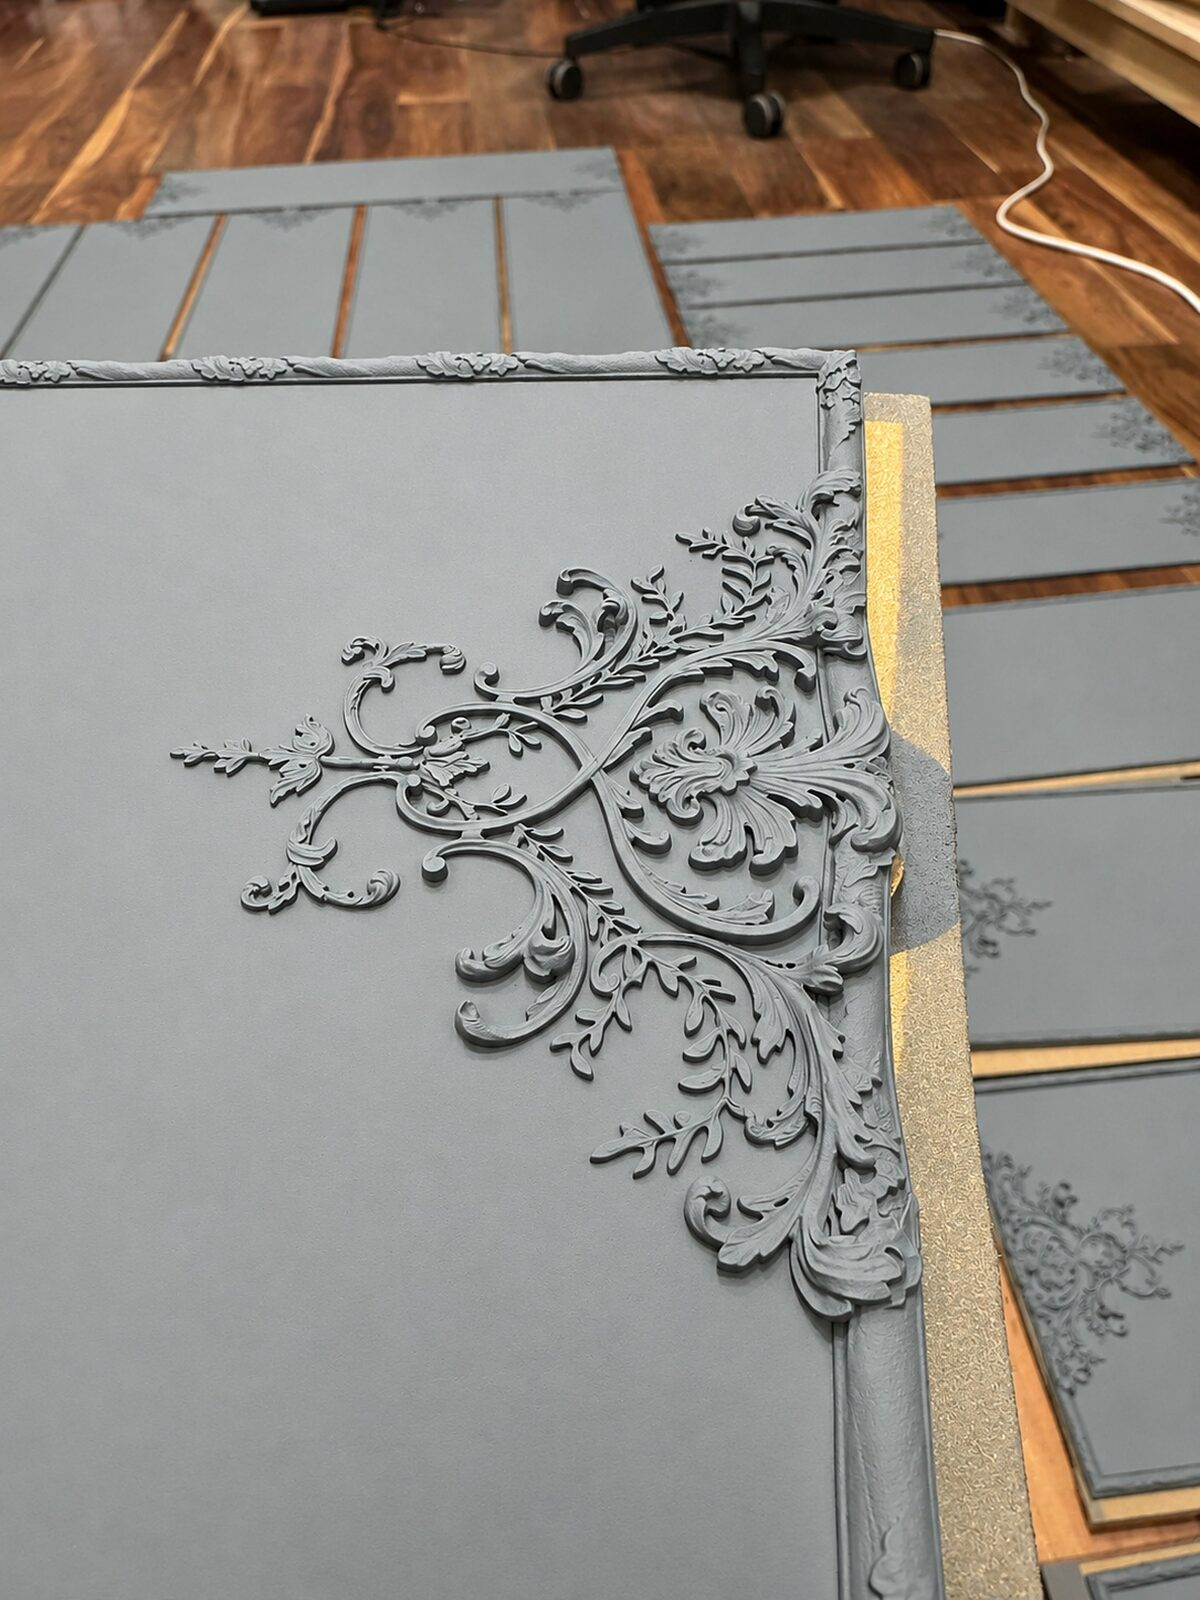
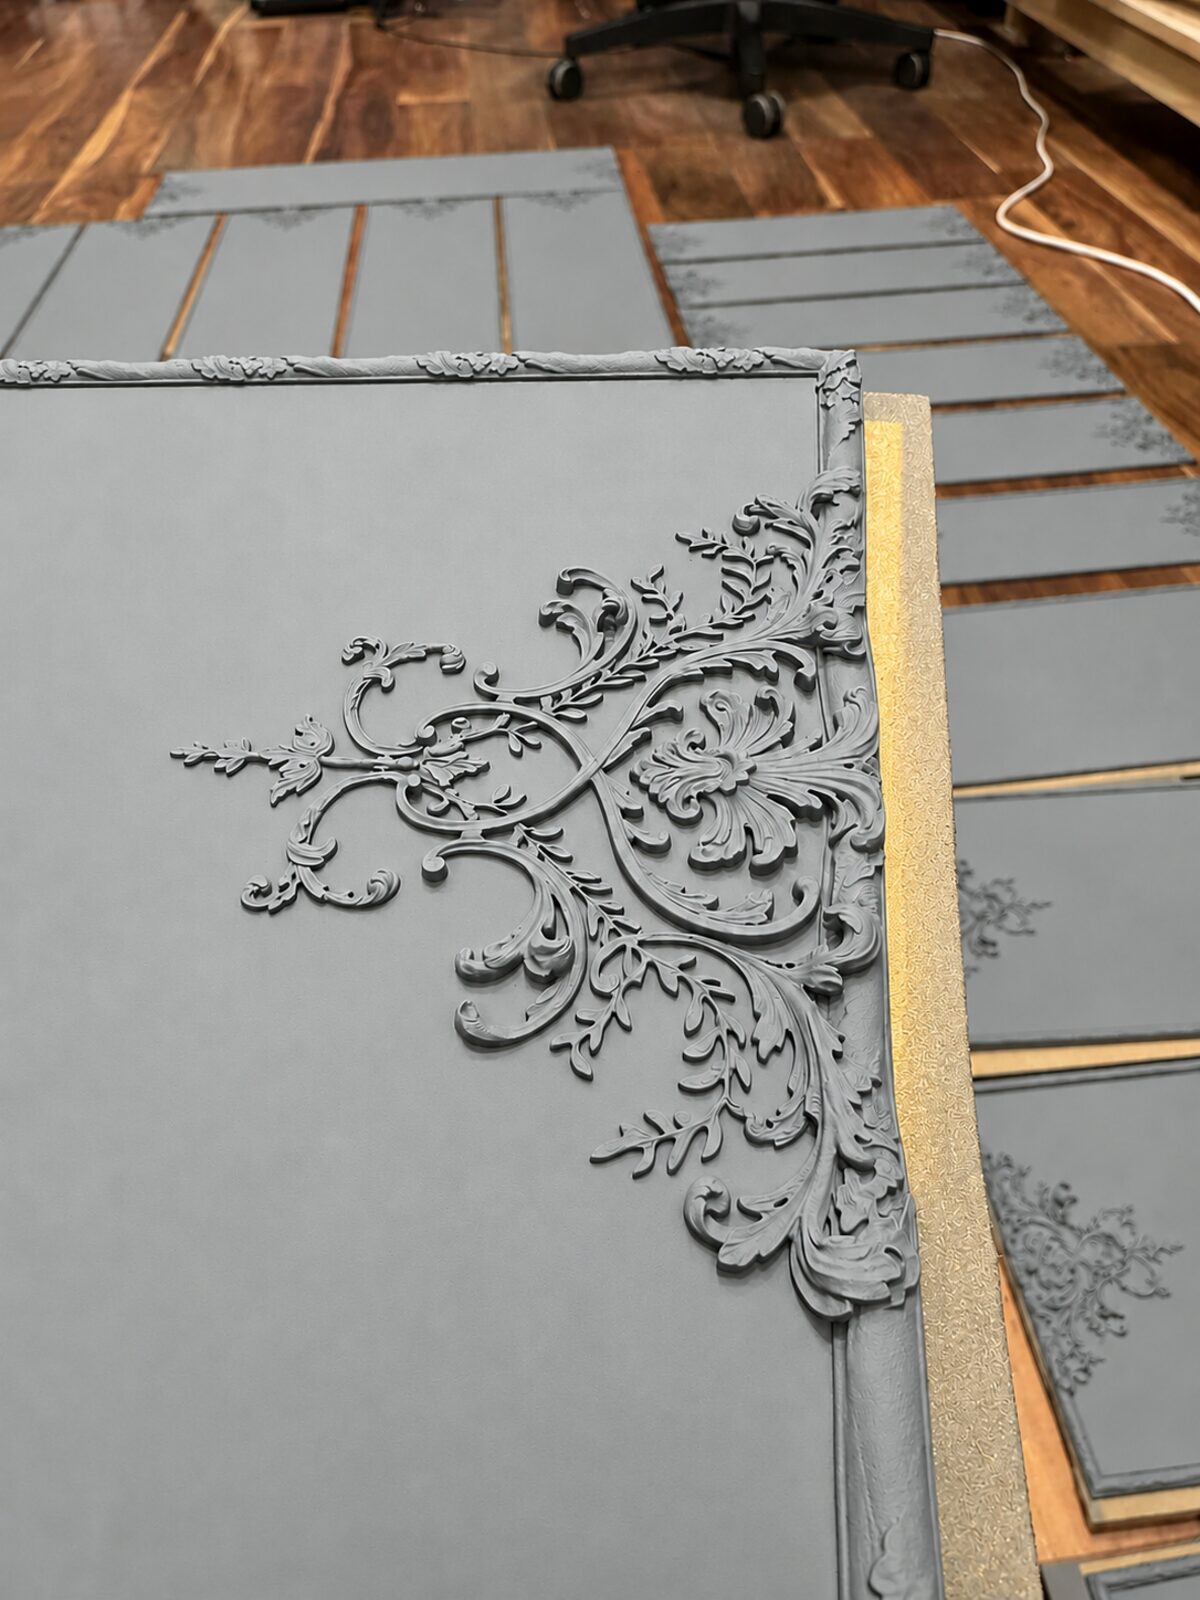
Nettoyer le panneau et neutraliser le fond Luxe

diff --git a/src/components/templates/SectorPage.tsx b/src/components/templates/SectorPage.tsx
@@ -131,7 +131,7 @@ export default function SectorPage({ sector }: SectorPageProps) {
       />
 
       {/* Hero Section */}
-      <section className={`relative overflow-hidden ${isLuxe ? 'bg-[#f5f3ef]' : 'bg-gradient-to-br from-secondary-900 via-secondary-800 to-primary-900'}`}>
+      <section className={`relative overflow-hidden ${isLuxe ? 'bg-[#f6f6f4]' : 'bg-gradient-to-br from-secondary-900 via-secondary-800 to-primary-900'}`}>
         <div className="container-custom relative">
           <div className={`w-full min-w-0 py-12 lg:py-16 ${showHeroVisual && sector.heroImage ? 'grid gap-10 lg:grid-cols-[minmax(0,1fr)_minmax(320px,0.7fr)] lg:items-center' : ''}`}>
             <div className={`w-full min-w-0 max-w-3xl ${sector.slug === 'luxe' ? 'lg:order-2' : ''}`}>
@@ -258,56 +258,3 @@ export default function SectorPage({ sector }: SectorPageProps) {
       {sector.showBenefits !== false && <section className="py-24 bg-white">
         <div className="container-custom">
           <div className="max-w-4xl mx-auto">
-            <h2 className="section-title mb-6">
-              Pourquoi choisir Inphenix pour vos projets {sector.name} ?
-            </h2>
-            <p className="text-lg text-secondary-600 mb-8">
-              Notre expertise combinée en impression 3D et électronique nous permet de répondre
-              aux exigences spécifiques du secteur {sector.name.toLowerCase()}.
-            </p>
-            <ul className="space-y-4">
-              {sector.benefits.map((benefit, index) => (
-                <li key={index} className="flex items-start gap-3 text-secondary-700">
-                  <span className="mt-0.5 flex-shrink-0 text-primary-600">✓</span>
-                  {benefit}
-                </li>
-              ))}
-            </ul>
-          </div>
-        </div>
-      </section>}
-
-      {/* CTA Section */}
-      {false && !isLuxe && <section className="py-24 bg-primary-600">
-        <div className="container-custom">
-          <div className="text-center max-w-2xl mx-auto">
-            <h2 className="text-3xl md:text-4xl font-bold text-white mb-6">
-              {sector.cta.title}
-            </h2>
-            <p className="text-xl text-primary-100 mb-8">
-              {sector.cta.description}
-            </p>
-            <div className="flex flex-col sm:flex-row gap-4 justify-center">
-              <Link href="/contact" className="bg-white text-primary-600 hover:bg-primary-50 px-8 py-4 rounded-lg font-semibold text-lg transition-colors whitespace-nowrap">
-                Nous contacter
-              </Link>
-              <a
-                href="https://impression3d.inphenix-system.fr"
-                target="_blank"
-                rel="noopener noreferrer"
-                className="bg-primary-700 text-white hover:bg-primary-800 px-8 py-4 rounded-lg font-semibold text-lg transition-colors flex items-center justify-center gap-2 whitespace-nowrap"
-              >
-                Devis instantané Impression 3D
-                <svg className="w-5 h-5" fill="none" stroke="currentColor" viewBox="0 0 24 24">
-                  <path strokeLinecap="round" strokeLinejoin="round" strokeWidth={2} d="M10 6H6a2 2 0 00-2 2v10a2 2 0 002 2h10a2 2 0 002-2v-4M14 4h6m0 0v6m0-6L10 14" />
-                </svg>
-              </a>
-            </div>
-          </div>
-        </div>
-      </section>}
-
-      {isLuxe && projectsSection}
-    </>
-  )
-}
